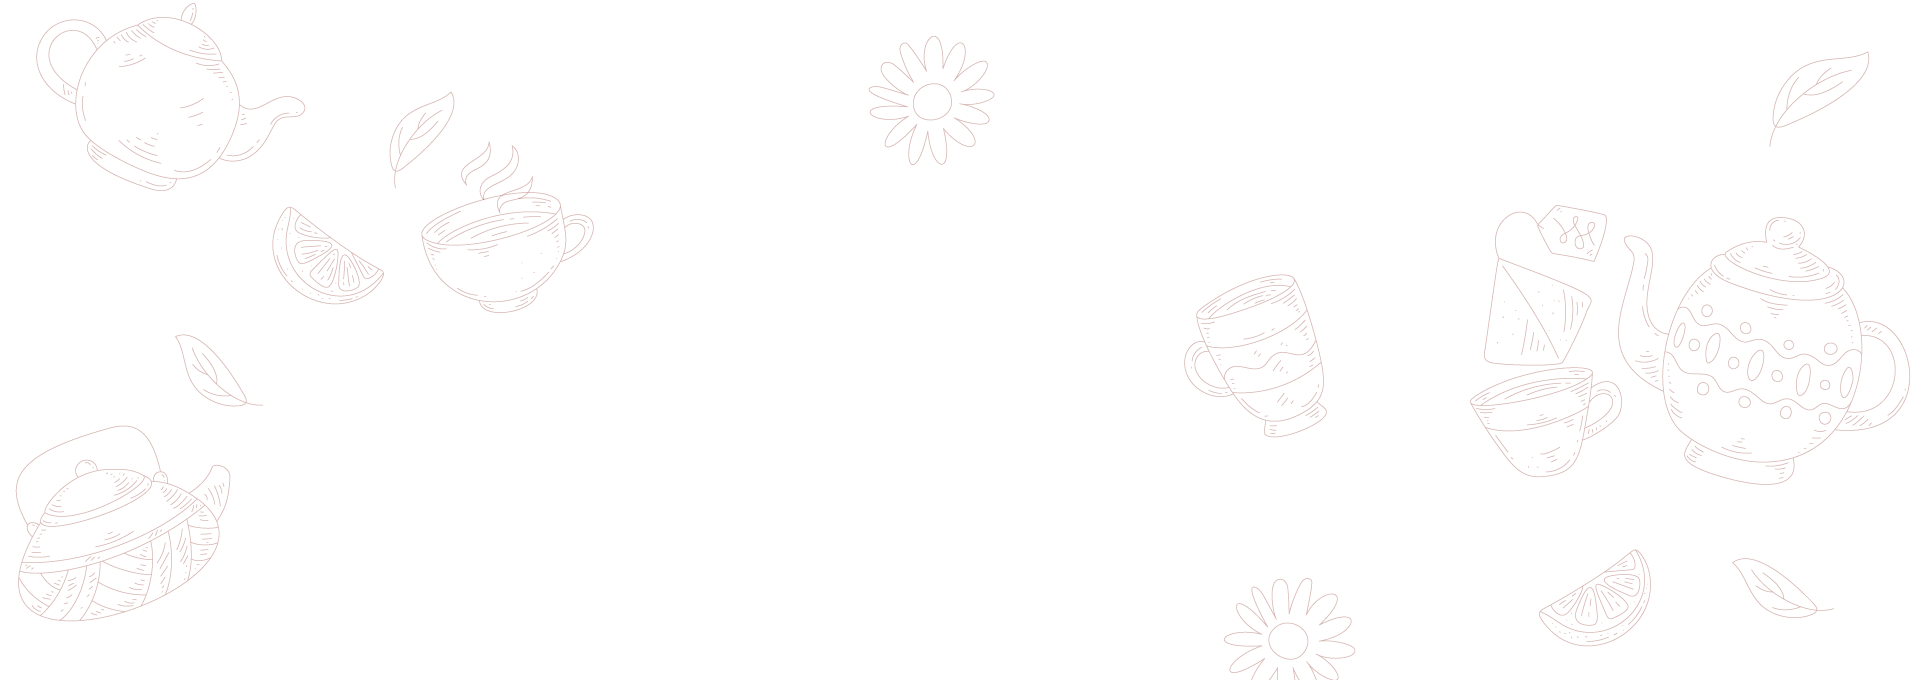
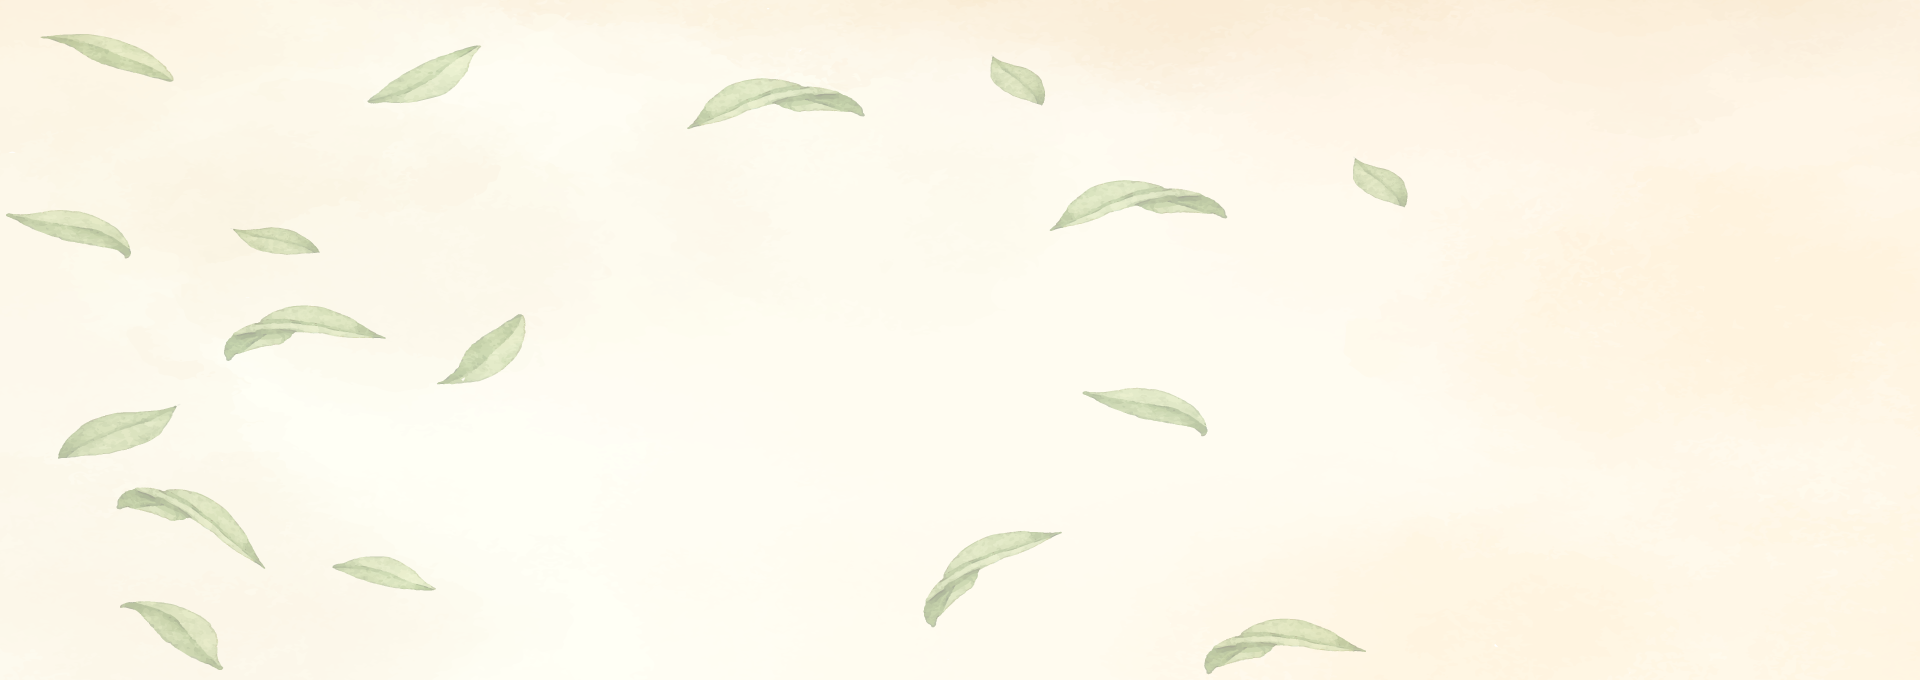
init

diff --git a/css/style.css b/css/style.css
@@ -3331,7 +3331,7 @@ background
   content: "";
   height: 40vw;
   width: 300%;
-  background-color: #f9fafc;
+  /* background-color: #f9fafc; */
   position: absolute;
   top: 500px;
   left: -100%;
@@ -4586,9 +4586,9 @@ illustration 9
   animation: anima1 3s 3s infinite ease-in-out;
 }
 .sb-banner{
-  background-image: url("../img/Untitled-2.png");
+  background-image: url("../img/Untitled-3.png");
   background-size: cover;
-  background-repeat: no-repeat;
+  /* background-repeat: no-repeat; */
 }
 
 
